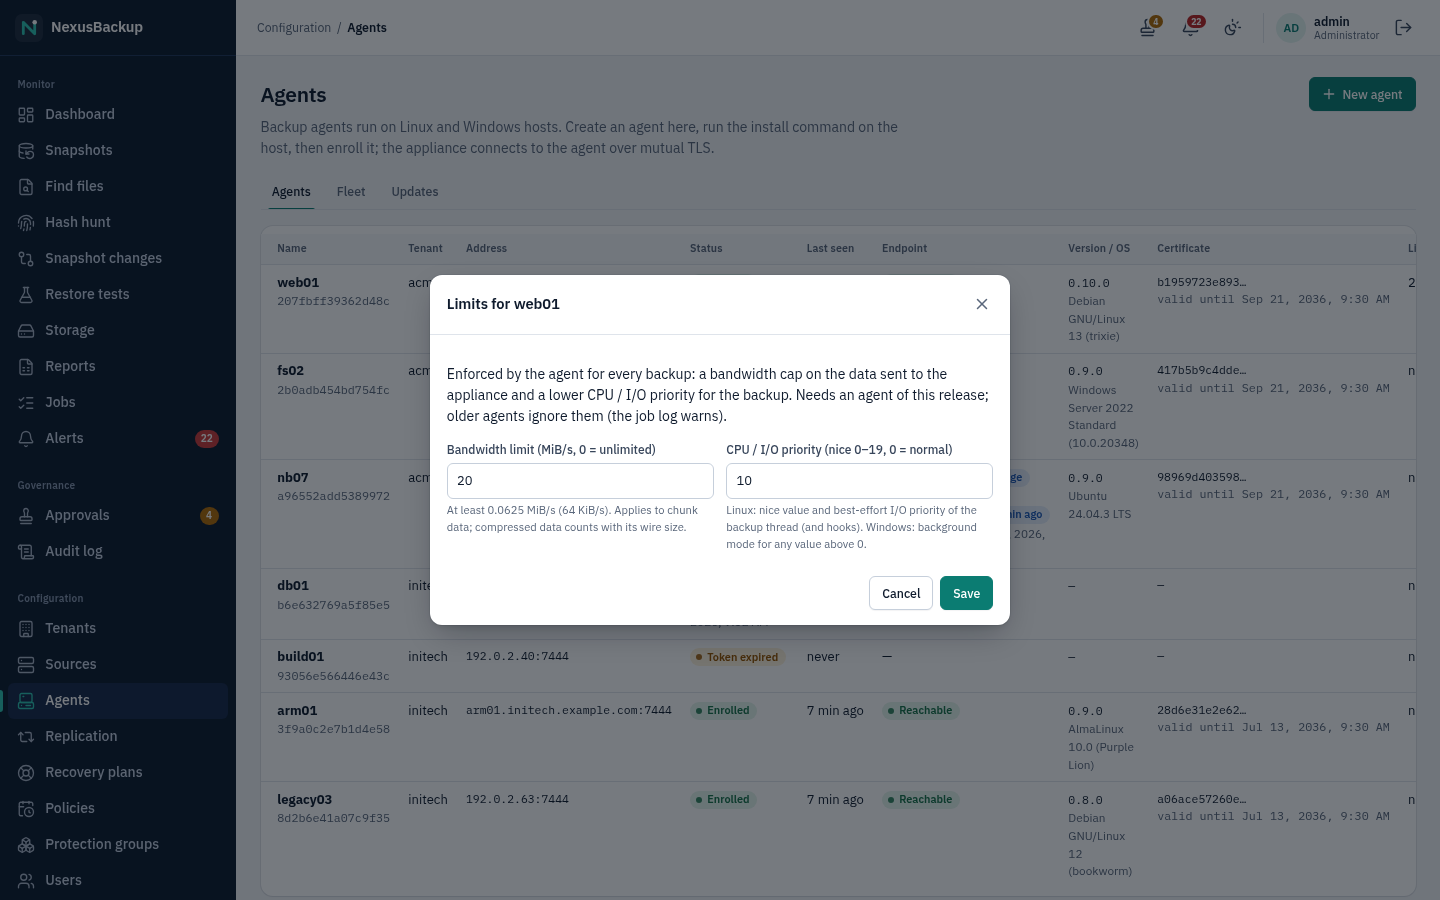
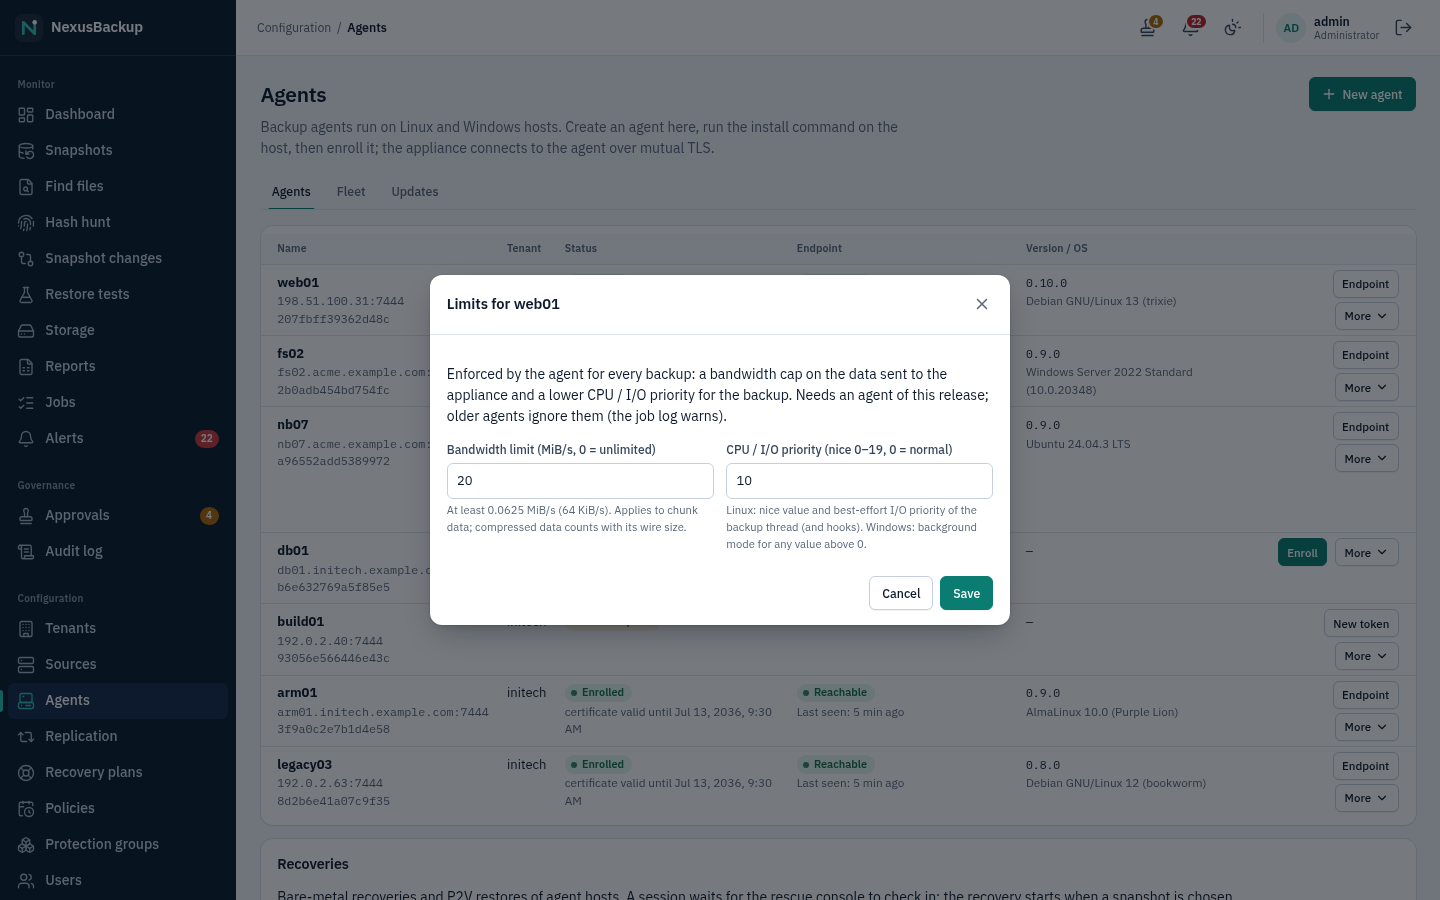
UI agents: fewer columns (address under the name, certificate under the status, limits and last seen with the endpoint), one main action per row and the rest in a More menu; rows of enrolled agents open their endpoint details

diff --git a/web/src/pages/Agents.svelte b/web/src/pages/Agents.svelte
@@ -13,6 +13,8 @@
   import { can } from '../lib/roles';
   import { session } from '../lib/session.svelte';
   import AgentEndpoint from '../components/AgentEndpoint.svelte';
+  import Menu, { type MenuItem } from '../components/Menu.svelte';
+  import { rowClick } from '../lib/rowlink';
   import ErrorBanner from '../components/ErrorBanner.svelte';
   import IconPlus from '@lucide/svelte/icons/plus';
   import Fleet from './agents/Fleet.svelte';
@@ -59,10 +61,25 @@
 
   const statusCls = { enrolled: 'ok', pending: 'info', expired: 'warn' };
   const hasToken = (a: Agent) => a.token_expires !== null && a.token_expires > now;
-  const shortFp = (fp: string) => (fp.length > 12 ? `${fp.slice(0, 12)}…` : fp);
   // Phase 19a: bare-metal recovery / P2V (Linux agents only)
   let rescue: ReturnType<typeof AgentsRescue> | undefined = $state();
   const bmrOk = (a: Agent) => can.backup(session.user) && !a.os?.startsWith('Windows');
+  // the row's other actions (the main one is a button of its own)
+  function agentActions(a: Agent, st: ReturnType<typeof agentStatus>): MenuItem[] {
+    const out: MenuItem[] = [];
+    if (st === 'enrolled') {
+      if (hasToken(a)) out.push({ label: t.agents.reenroll, onselect: () => enroll(a) });
+      out.push({ label: t.agents.renew, onselect: () => renew(a) });
+      out.push({ label: t.agents.update, onselect: () => update(a) });
+      out.push({ label: t.agents.reenrollToken, onselect: () => newToken(a) });
+    } else if (hasToken(a)) {
+      out.push({ label: t.agents.newToken, onselect: () => newToken(a) });
+    }
+    out.push({ label: t.agents.limits, onselect: () => limits(a) });
+    if (bmrOk(a)) out.push({ label: t.bmr.action, onselect: () => rescue?.openFor(a) });
+    out.push({ label: t.delete, onselect: () => remove(a) });
+    return out;
+  }
 
   // Create
   let open = $state(false);
@@ -240,32 +257,34 @@
           <tr>
             <th scope="col">{t.name}</th>
             <th scope="col">{t.tenant}</th>
-            <th scope="col">{t.agents.hostShort}</th>
             <th scope="col">{t.agents.status}</th>
-            <th scope="col">{t.agents.lastSeen}</th>
             <th scope="col">{t.ep.column}</th>
             <th scope="col">{t.agents.version} / {t.agents.os}</th>
-            <th scope="col">{t.agents.cert}</th>
-            <th scope="col">{t.agents.limits}</th>
             <th scope="col"><span class="visually-hidden">{t.actions}</span></th>
           </tr>
         </thead>
         <tbody>
           {#each items as a (a.id)}
             {@const st = agentStatus(a, now)}
-            <tr>
-              <td><strong>{a.name}</strong> <div class="muted mono">{a.id}</div></td>
+            <tr use:rowClick={st === 'enrolled' ? () => endpoint(a) : null}>
+              <td>
+                <strong>{a.name}</strong>
+                <div class="muted mono small">{a.host}:{a.port}</div>
+                <div class="muted mono small">{a.id}</div>
+              </td>
               <td>{a.tenant}</td>
-              <td class="mono">{a.host}:{a.port}</td>
               <td>
                 <span class="chip {statusCls[st]}">{t.agents.statuses[st]}</span>
                 {#if st === 'enrolled' && hasToken(a)}
-                  <div class="muted">{t.agents.tokenUntil(fmtTime(a.token_expires))}</div>
+                  <div class="muted small">{t.agents.tokenUntil(fmtTime(a.token_expires))}</div>
                 {:else if st === 'pending'}
-                  <div class="muted">{t.agents.expires}: {fmtTime(a.token_expires)}</div>
+                  <div class="muted small">{t.agents.expires}: {fmtTime(a.token_expires)}</div>
                 {/if}
+                {#if a.cert_expires}<div class="muted small" title={a.cert_sha256 ? `SHA-256 ${a.cert_sha256}` : undefined}>
+                    {t.agents.certUntil(fmtTime(a.cert_expires))}
+                  </div>{/if}
+                {#if a.cert_renewal_pending}<div><span class="chip info">{t.agents.renewalPending}</span></div>{/if}
               </td>
-              <td class="nowrap" title={fmtTime(a.last_seen)}>{fmtAgo(a.last_seen, now)}</td>
               <td>
                 {#if st === 'enrolled'}
                   {#if a.reachable === true}
@@ -276,54 +295,36 @@
                     <span class="chip info">{t.ep.neverPolled}</span>
                   {/if}
                   {#if a.via === 'edge'}<span class="chip info">{t.ep.viaEdge}</span>{/if}
+                {/if}
+                <div class="muted small" title={fmtTime(a.last_seen)}>{t.agents.lastSeen}: {fmtAgo(a.last_seen, now)}</div>
+                {#if st === 'enrolled'}
                   {#if a.power?.on_battery}
-                    <div class="muted">{t.ep.onBattery(a.power.battery_percent != null ? String(a.power.battery_percent) : '')}</div>
+                    <div class="muted small">{t.ep.onBattery(a.power.battery_percent != null ? String(a.power.battery_percent) : '')}</div>
                   {/if}
-                  {#if a.power?.metered}<div class="muted">{t.ep.metered}{a.power.network_name ? ` (${a.power.network_name})` : ''}</div>{/if}
+                  {#if a.power?.metered}<div class="muted small">{t.ep.metered}{a.power.network_name ? ` (${a.power.network_name})` : ''}</div>{/if}
                   {#if pendingRequest(a)}
                     <div><span class="chip info">{t.ep.requested(fmtAgo(a.last_request!.received, now))}</span></div>
                   {:else if a.last_request?.refused && now - a.last_request.received < 3600}
-                    <div class="muted">{t.ep.requestRefused(a.last_request.refused)}</div>
+                    <div class="muted small">{t.ep.requestRefused(a.last_request.refused)}</div>
                   {/if}
-                  {#if a.missed_at}<div class="muted">{t.ep.missed(fmtTime(a.missed_at))}</div>{/if}
-                {:else}—{/if}
+                  {#if a.missed_at}<div class="muted small">{t.ep.missed(fmtTime(a.missed_at))}</div>{/if}
+                {/if}
+                {#if limitText(a) !== t.agents.limitsNone}<div class="muted small">{t.agents.limits}: {limitText(a)}</div>{/if}
               </td>
               <td>
                 <span class="mono">{a.version ?? '—'}</span>
-                {#if a.os}<div class="muted">{a.os}</div>{/if}
+                {#if a.os}<div class="muted small">{a.os}</div>{/if}
               </td>
-              <td class="mono">
-                {#if a.cert_sha256}<span title="SHA-256 {a.cert_sha256}">{shortFp(a.cert_sha256)}</span>{:else}—{/if}
-                {#if a.cert_expires}<div class="muted">{t.agents.certUntil(fmtTime(a.cert_expires))}</div>{/if}
-                {#if a.cert_renewal_pending}<div><span class="chip info">{t.agents.renewalPending}</span></div>{/if}
-              </td>
-              <td class="nowrap">{limitText(a)}</td>
               <td class="actions">
-                <!-- Enrolling needs a valid one-time token; enrolled agents can re-enroll after "New token". -->
-                {#if st !== 'enrolled' || hasToken(a)}
-                  <button
-                    type="button"
-                    class="small"
-                    disabled={!hasToken(a)}
-                    title={hasToken(a) ? undefined : t.agents.enrollNeedsToken}
-                    onclick={() => enroll(a)}>{st === 'enrolled' ? t.agents.reenroll : t.agents.enroll}</button
-                  >
-                {/if}
-                <button type="button" class="small" onclick={() => newToken(a)}
-                  >{st === 'enrolled' ? t.agents.reenrollToken : t.agents.newToken}</button
-                >
-                {#if st === 'enrolled'}
-                  <button type="button" class="small" onclick={() => renew(a)}>{t.agents.renew}</button>
-                  <button type="button" class="small" onclick={() => update(a)}>{t.agents.update}</button>
-                {/if}
-                <button type="button" class="small" onclick={() => limits(a)}>{t.agents.limits}</button>
-                {#if bmrOk(a)}
-                  <button type="button" class="small" data-bmr={a.id} onclick={() => rescue?.openFor(a)}>{t.bmr.action}</button>
-                {/if}
+                <!-- the main action visible, everything else in the menu -->
                 {#if st === 'enrolled'}
                   <button type="button" class="small" onclick={() => endpoint(a)}>{t.ep.button}</button>
+                {:else if hasToken(a)}
+                  <button type="button" class="small primary" onclick={() => enroll(a)}>{t.agents.enroll}</button>
+                {:else}
+                  <button type="button" class="small" onclick={() => newToken(a)}>{t.agents.newToken}</button>
                 {/if}
-                <button type="button" class="small danger" onclick={() => remove(a)}>{t.delete}</button>
+                <Menu label={t.agents.more} ariaLabel={t.agents.moreLabel(a.name)} items={agentActions(a, st)} />
               </td>
             </tr>
           {/each}

diff --git a/web/src/lib/i18n.ts b/web/src/lib/i18n.ts
@@ -1054,6 +1054,8 @@ export const en = {
     job: (id: number) => `job #${id}`,
   },
   agents: {
+    more: "More",
+    moreLabel: (name: string) => `More actions for agent ${name}`,
     title: "Agents",
     new: "New agent",
     intro:
@@ -1097,7 +1099,7 @@ export const en = {
     renew: "Renew certificate",
     renewConfirm: (n: string) =>
       `Renew the certificate of "${n}" now? The agent generates a new key over the existing session; the appliance signs it and pins the new certificate. Renewal also happens automatically 30 days (or 10 % of the lifetime) before expiry.`,
-    certUntil: (s: string) => `valid until ${s}`,
+    certUntil: (s: string) => `certificate valid until ${s}`,
     renewalPending:
       "Renewal issued, waiting for the next session to confirm it",
     limits: "Limits",
